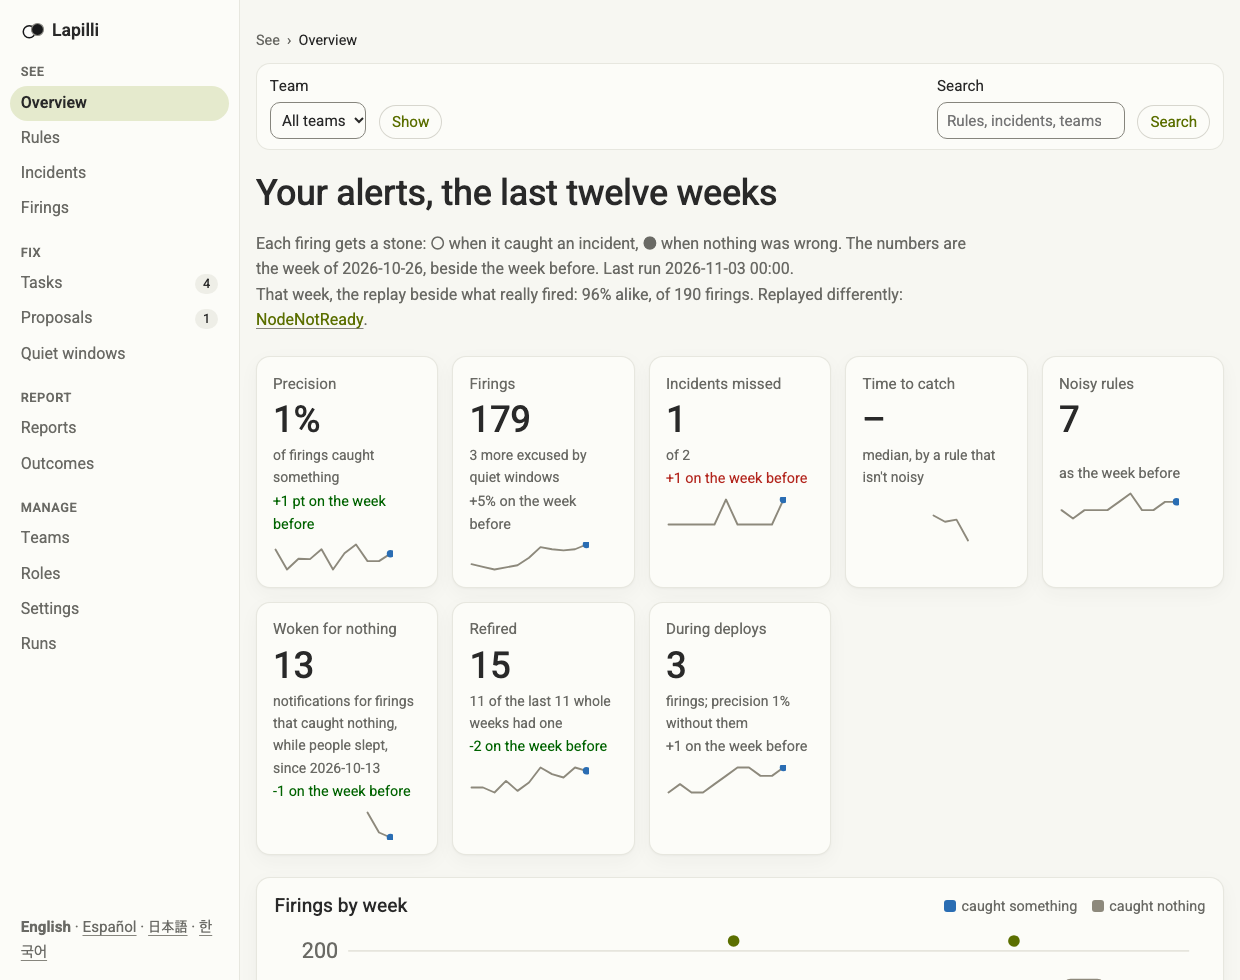
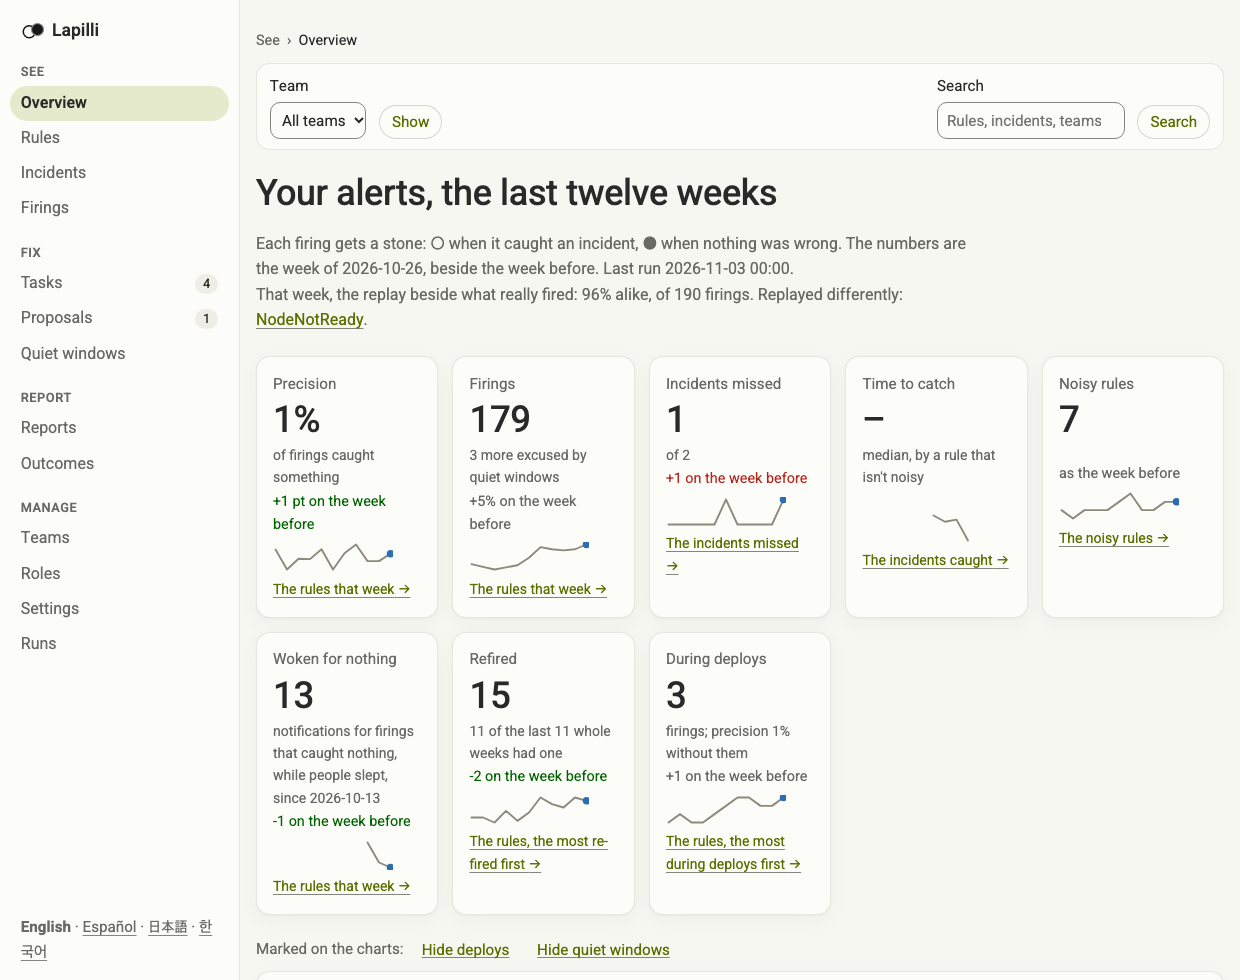
docs: many at once, and ways in
docs/design/ui.md says how phase five is built: the bulk writes and
their checks, the firings' labels and hours, the overview's ways in and
marks, an incident's timeline. The README says it briefly, with a
picture of the noisy rules and the bulk bar, which shots.sh now takes;
the overview's pictures are taken again. CHANGELOG: Unreleased.

diff --git a/docs/design/ui.md b/docs/design/ui.md
@@ -1,12 +1,14 @@
 # The web UI of `lapilli serve`
 
 Status: phases 1 and 2 in v0.35.0; phase 3, a rule's page, in v0.37.0;
-phase 4, the way to change things, built, unreleased. This is how the
-pages are put together: the frame every page has, the team and period
-carried from page to page, the search, the rules list and its filters, a
-rule's page, the way to change things (a proposal's page, the lists'
-facets, a quiet window's preview, the Manage page), and what the later
-phases will add. [serve.md](serve.md) says what each page shows;
+phase 4, the way to change things, in v0.38.0; phase 5, many at once and
+ways in, built, unreleased. This is how the pages are put together: the
+frame every page has, the team and period carried from page to page, the
+search, the rules list and its filters, a rule's page, the way to change
+things (a proposal's page, the lists' facets, a quiet window's preview,
+the Manage page), what can be done to many at once and the ways from a
+number to what makes it, and what the later phases will add.
+[serve.md](serve.md) says what each page shows;
 [access.md](access.md) how the pages meet WCAG 2.2 AA.
 
 ## What holds for every page
@@ -705,6 +707,121 @@ lines a side, shown whole, too), a quiet window's preview 35 to 80 ms
 (every day, once over the four weeks, by cron), the tasks and the Manage
 page about a millisecond.
 
+## Many at once, and ways in
+
+### Bulk writes
+
+The rules list's table is a POST form to `/rules/bulk` (the facets are a
+GET form of their own, beside it, not around it): a checkbox a row, its
+accessible name the rule's, and a bar over the table, "With the rules
+picked": Make a task for each, a team and Set the team, a disposition and
+Set the disposition, each its own button (`do=task|team|status`). There is
+no "pick every row": that takes a script. The firings have the same for
+what caught nothing, "These were real", a form of its own above the table
+whose checkboxes join it by `form=`, so that each row's own "This was
+real" form stays as it was, outside it.
+
+Each item is the write the same form makes for one, in turn, with every
+check it has: a task as a rule's "Add a task" makes it (`Tune NAME`, kind
+tune, the rule's team; `ledger.PutTask`, which refuses a team's editor
+another team's), a note as the rule's note form keeps it, its other fields
+as they are (`ruleInScope`, then `ledger.PutNote`, which refuses a team's
+editor a rule's team changed), an incident as the firing's own "This was
+real" writes it (`realOne`). So the changes log has a line for each, by
+whom, as one by one would, and a refusal is counted, not written: a
+team's editor's rules of another team are "not your team's"; what the
+ledger refuses for what it is, "refused"; a firing that has caught
+something by its turn (an incident written from one picked before it
+covers it), "had caught something already". An error of another kind
+stops there, as the write alone would. `TestBulkRules` sets each beside
+the same writes made one at a time on a twin ledger: the same notes, the
+same tasks, the same lines in the changes log, for an editor, an admin and
+a team's editor.
+
+A request takes 100 at most, each once, however often it is picked; past
+that it is refused whole, 400. The writes are the same doors: same-site
+POSTs (a cross-site one is refused before the handler), `--read-only`,
+the role (`teamWrite` for the rules, `write` for the firings). The form
+names the list it came from (`back`), which is gone back to only if it is
+that list's path (`safeBack`, then the path checked), with what was done
+in its query, `bulk=task&done=3&theirs=2`: the page says it once, in a
+`role="status"` line, read within bounds (counts of 0 to 100, a kind it
+knows; anything else says nothing), and none of the links the page makes
+carry it on. The bar is disabled for whoever may not use it, with why
+(`aria-describedby`); a team's editor's "Set the team" is, "Editors only",
+as moving a rule into or out of a team is an editor's.
+
+### The firings: labels, and the day by the hour
+
+Each firing's labels are chips, `name=value` in `<bdi>`, each a link to the
+same day's firings with that label too (`label=name=value`, repeatable,
+all of them, five at most, a name of 128 bytes and a value of 256 as the
+ledger keeps them); a label already picked is drawn solid and isn't a
+link; with five picked, none adds one. Those picked are chips in "Filters
+in effect", each taking its label away, and the form's hidden fields; the
+days before and after, and the next page, keep them, and the rule and
+"only ● nothing" (which the day links used to drop). A label that isn't
+one is left out and not said back; past five, the page says some were.
+With labels picked, the page looks through the day's latest 20,000
+firings for them, and says so when there were more.
+
+Over the table, the day's firings by the hour of the clock each started
+in: 24 cells, from where the ledger's day starts (on a day whose midnight
+the clocks skip, America/Santiago 2026-09-06, from 01:00), each counting
+the firings the page lists, all of them, not only the hundred shown:
+caught something hollow (○), caught nothing solid (●), excused dashed,
+stacked from the foot. The same as a table in a `<details>`, which says of
+an hour the clocks skipped "not this day" and of one they went back over
+"twice". Without labels, it is one read of the day's firings' starts and
+stones (`ledger.FiringStarts`), their labels not read. `TestHourStrip`
+sets it beside the ledger's firings, by the date on the clock, in UTC,
+Seoul, Santiago (a skipped midnight, a repeated hour), Berlin and New York.
+
+### The overview's ways in
+
+Each tile links to the list that makes its number, with the same team,
+over the tiles' week, last week: `week=DATE` on the rules and the
+incidents is a whole week of the twelve kept, over (a date in it is its
+Monday; another date, or this week, is no week, and the list is over its
+period). The list says so in its lede and has a chip for it. Precision,
+Firings and Woken for nothing go to the rules over the week; Noisy rules
+to `perf=noisy`; Refired and During deploys to the order by each; the
+incidents missed and caught to the incidents, `state=missed|caught`
+(`state=` takes caught, noisy or missed, each a link with its count, the
+counts and the median lead of every one). The rules list ends with a row
+of what the rules shown come to: firings, caught, nothing (and asleep, off
+hours, and the notifications for nothing while people slept, as the
+overview counts them, once notifications are kept), precision, re-fires,
+during deploys. `TestDrillDown` holds each tile to what its list comes
+to, for all teams and each, with notifications kept and without.
+
+The firings and incidents charts mark, besides the weeks the rules
+changed, the weeks with firings during deploys (a triangle) and the weeks
+a quiet window was over (a bar): one excused a firing of the team's, or
+one of the team's or everyone's (any team's, for all teams; one of a team
+removed, none) covers some time of the week, as `windowDays` works it out
+for a rule's strip. Each kind has a link to hide it and show it again
+(`marks=deploys,windows`, both when not given, `none` for neither; a value
+it doesn't take is none); the legend names the marks shown; the table of
+the weeks says the same, a tag a mark. "What to look at" is as it was, and
+its "Make it a task" is disabled, with why, for whoever may not: a team's
+editor makes tasks of their team's rules, and none about an incident.
+
+### An incident's timeline
+
+An incident's page draws it on a time axis from `--lead` before it to
+`--lead` after it ends (with no end, as long as the verdict takes one,
+`UnknownLen`): its span shaded, and a row for each rule that caught it,
+then each that nearly caught it (the near misses the page lists, a diamond
+where it would have fired), then each that was on around it, by when it
+first was, its firings drawn from their starts, the stone a circle at the
+start: hollow, solid, dashed. Twenty rules at most, fifty firings each,
+the rest counted; the firings read once, those on in the span, started in
+it or before and not ended by its start, a day back, 5,000 at most. The
+rows are a table, a rule's name in a row header and its firings an SVG on
+the shared axis; the same numbers, and when each firing started, are a
+table in a `<details>` under it.
+
 ## Without a script
 
 | Elsewhere | Here |
@@ -721,14 +838,12 @@ page about a millisecond.
 | a dry run before saving | a Preview button on the same POST, which writes nothing |
 | a box that enables a button | `required`, and checked again by the server |
 | a diff view's toggles | links, `?diff=` and `?context=` |
+| rows picked, then an action | a checkbox a row in one POST form, a button an action; each row's own write in turn |
+| a toast saying what was done | the page gone back to says it once, from its query |
+| annotations toggled on a chart | a link to the same page with `marks=` |
 
 ## Later phases
 
-- **Bulk actions** on the rules list: a task, a note's status, a proposal
-  for the rules picked, as one POST form.
-- **Label chips**: the labels a rule fires with as chips on its row, each a
-  `label:` filter.
-- **The overview's drill-down**: each tile and chart a link to the rules or
-  incidents it counts, with the filters that give them.
-- Disabled-with-why on the rules list, the firings and the overview, by
-  the phase that changes them.
+- **A proposal for the rules picked**, beside the bulk writes.
+- **Label chips on the rules list**: the labels a rule fires with as chips
+  on its row, each a `label:` filter.

diff --git a/README.md b/README.md
@@ -1155,7 +1155,7 @@ lapilli serve --rules alert-rules/ --prometheus http://prometheus:9090 --match s
 
 <picture>
   <source media="(prefers-color-scheme: dark)" srcset="assets/serve-dashboard-dark.png">
-  <img alt="The lapilli serve overview, with its pages in a sidebar: last week's precision, firings, incidents missed, time to catch (none), noisy rules, notifications for firings that caught nothing while people slept, re-fires and firings during deploys, each with a line of its weeks and most beside the week before; under them, the top of the firings by week" src="assets/serve-dashboard.png" width="820">
+  <img alt="The lapilli serve overview, with its pages in a sidebar: last week's precision, firings, incidents missed, time to catch (none), noisy rules, notifications for firings that caught nothing while people slept, re-fires and firings during deploys, each with a line of its weeks, most beside the week before, and a link to the list that makes it; under them, links to hide the charts' marks of deploys and quiet windows" src="assets/serve-dashboard.png" width="820">
 </picture>
 
 A web UI opens on a dashboard of the last twelve weeks: last week's
@@ -1187,6 +1187,21 @@ name and `is:noisy`, `severity:critical`, `status:tune`, `has:proposal`,
 `label:team=pay`, `group:shop` and `team:pay`; each filter in effect is a
 chip that takes it away, and the URL keeps them all
 ([docs/design/ui.md](docs/design/ui.md)).
+
+<picture>
+  <source media="(prefers-color-scheme: dark)" srcset="assets/serve-rules-dark.png">
+  <img alt="The rules list filtered to the noisy rules over four weeks: the filters beside it with their counts, the filter in effect as a chip, a bar to make a task for each rule picked or set their team or disposition, and the rules, each with a checkbox, its badges and its numbers, and what they come to all told" src="assets/serve-rules.png" width="820">
+</picture>
+
+Many can be changed at once: rules picked on the list get a task each, a
+team or a disposition, and firings picked are written down as real, each
+as its own page would change it, with the same checks and a line each in
+the changes log. Each of the overview's numbers opens the list that makes
+it, over the same week and team (the noisy rules, the incidents missed);
+its weekly charts mark deploys and quiet windows. A day's firings are
+counted by the hour, and each firing's labels are chips that pick the
+firings with them; an incident's page draws when each rule fired around
+it.
 
 A rule's page has its badges, what to check about it and what can be done
 at its top; five numbers over the period picked (precision, firings,

diff --git a/CHANGELOG.md b/CHANGELOG.md
@@ -2,6 +2,48 @@
 
 ## [Unreleased]
 
+### Added
+
+- **Many at once** (docs/design/ui.md). The rules list's table is one
+  form: a checkbox a rule, and a bar to make a task for each, set their
+  team, or set what is to become of them. The firings that caught nothing
+  can be picked and written down as real together. Each item is the write
+  its own form makes, in turn, with every check it has: a team's editor's
+  rules of another team are counted, not changed, and the changes log has
+  a line for each. At most 100 a request, from this site. The list it came
+  from is gone back to, its filters, order and team kept, and says once
+  what was done ("3 done; 2 not your team's").
+- **A firing's labels as chips**, each a link to the same day's firings
+  with that label too (`/firings?label=service=api`, all of them, five at
+  most); a label picked is a chip that takes it away.
+- **A day's firings by the hour** over the firings' table: 24 cells from
+  where the ledger's day starts, caught something hollow, nothing solid,
+  excused dashed; the same as a table, which says an hour the clocks
+  skipped or went back over.
+- **The overview's tiles open what makes their numbers**: each links to
+  the rules or the incidents over last week, the tiles' week, with the
+  same team, and what the list comes to is the tile's number. The rules
+  and the incidents take `week=DATE`, a whole week of the twelve kept;
+  the incidents, `state=caught|noisy|missed`, each a link with its count;
+  the rules list ends with what the rules shown come to, all told.
+- **Marks on the overview's weekly charts**: the weeks with firings during
+  deploys and the weeks a quiet window was over, besides the rules'
+  changes, each with a link to hide it or show it (`marks=`), in the
+  legend and in the table of the weeks.
+- **An incident's timeline** on its page: its span from `--lead` before it
+  to `--lead` after, and a row for each rule that caught it, nearly caught
+  it or was on around it, its firings drawn by their stones; twenty rules
+  at most, fifty firings each; the same as a table.
+
+### Changed
+
+- The overview's "Make it a task", and the firings' "This was real", are
+  shown disabled, with why, to a reader who may not use them, as each
+  page's main action is: they were a form the write then refused, or
+  weren't there.
+- The firings' days before and after keep "only ● nothing", as the form
+  does.
+
 ## [0.38.0] - 2026-11-15
 
 The way to change things: the fourth phase of docs/design/ui.md. Still no
